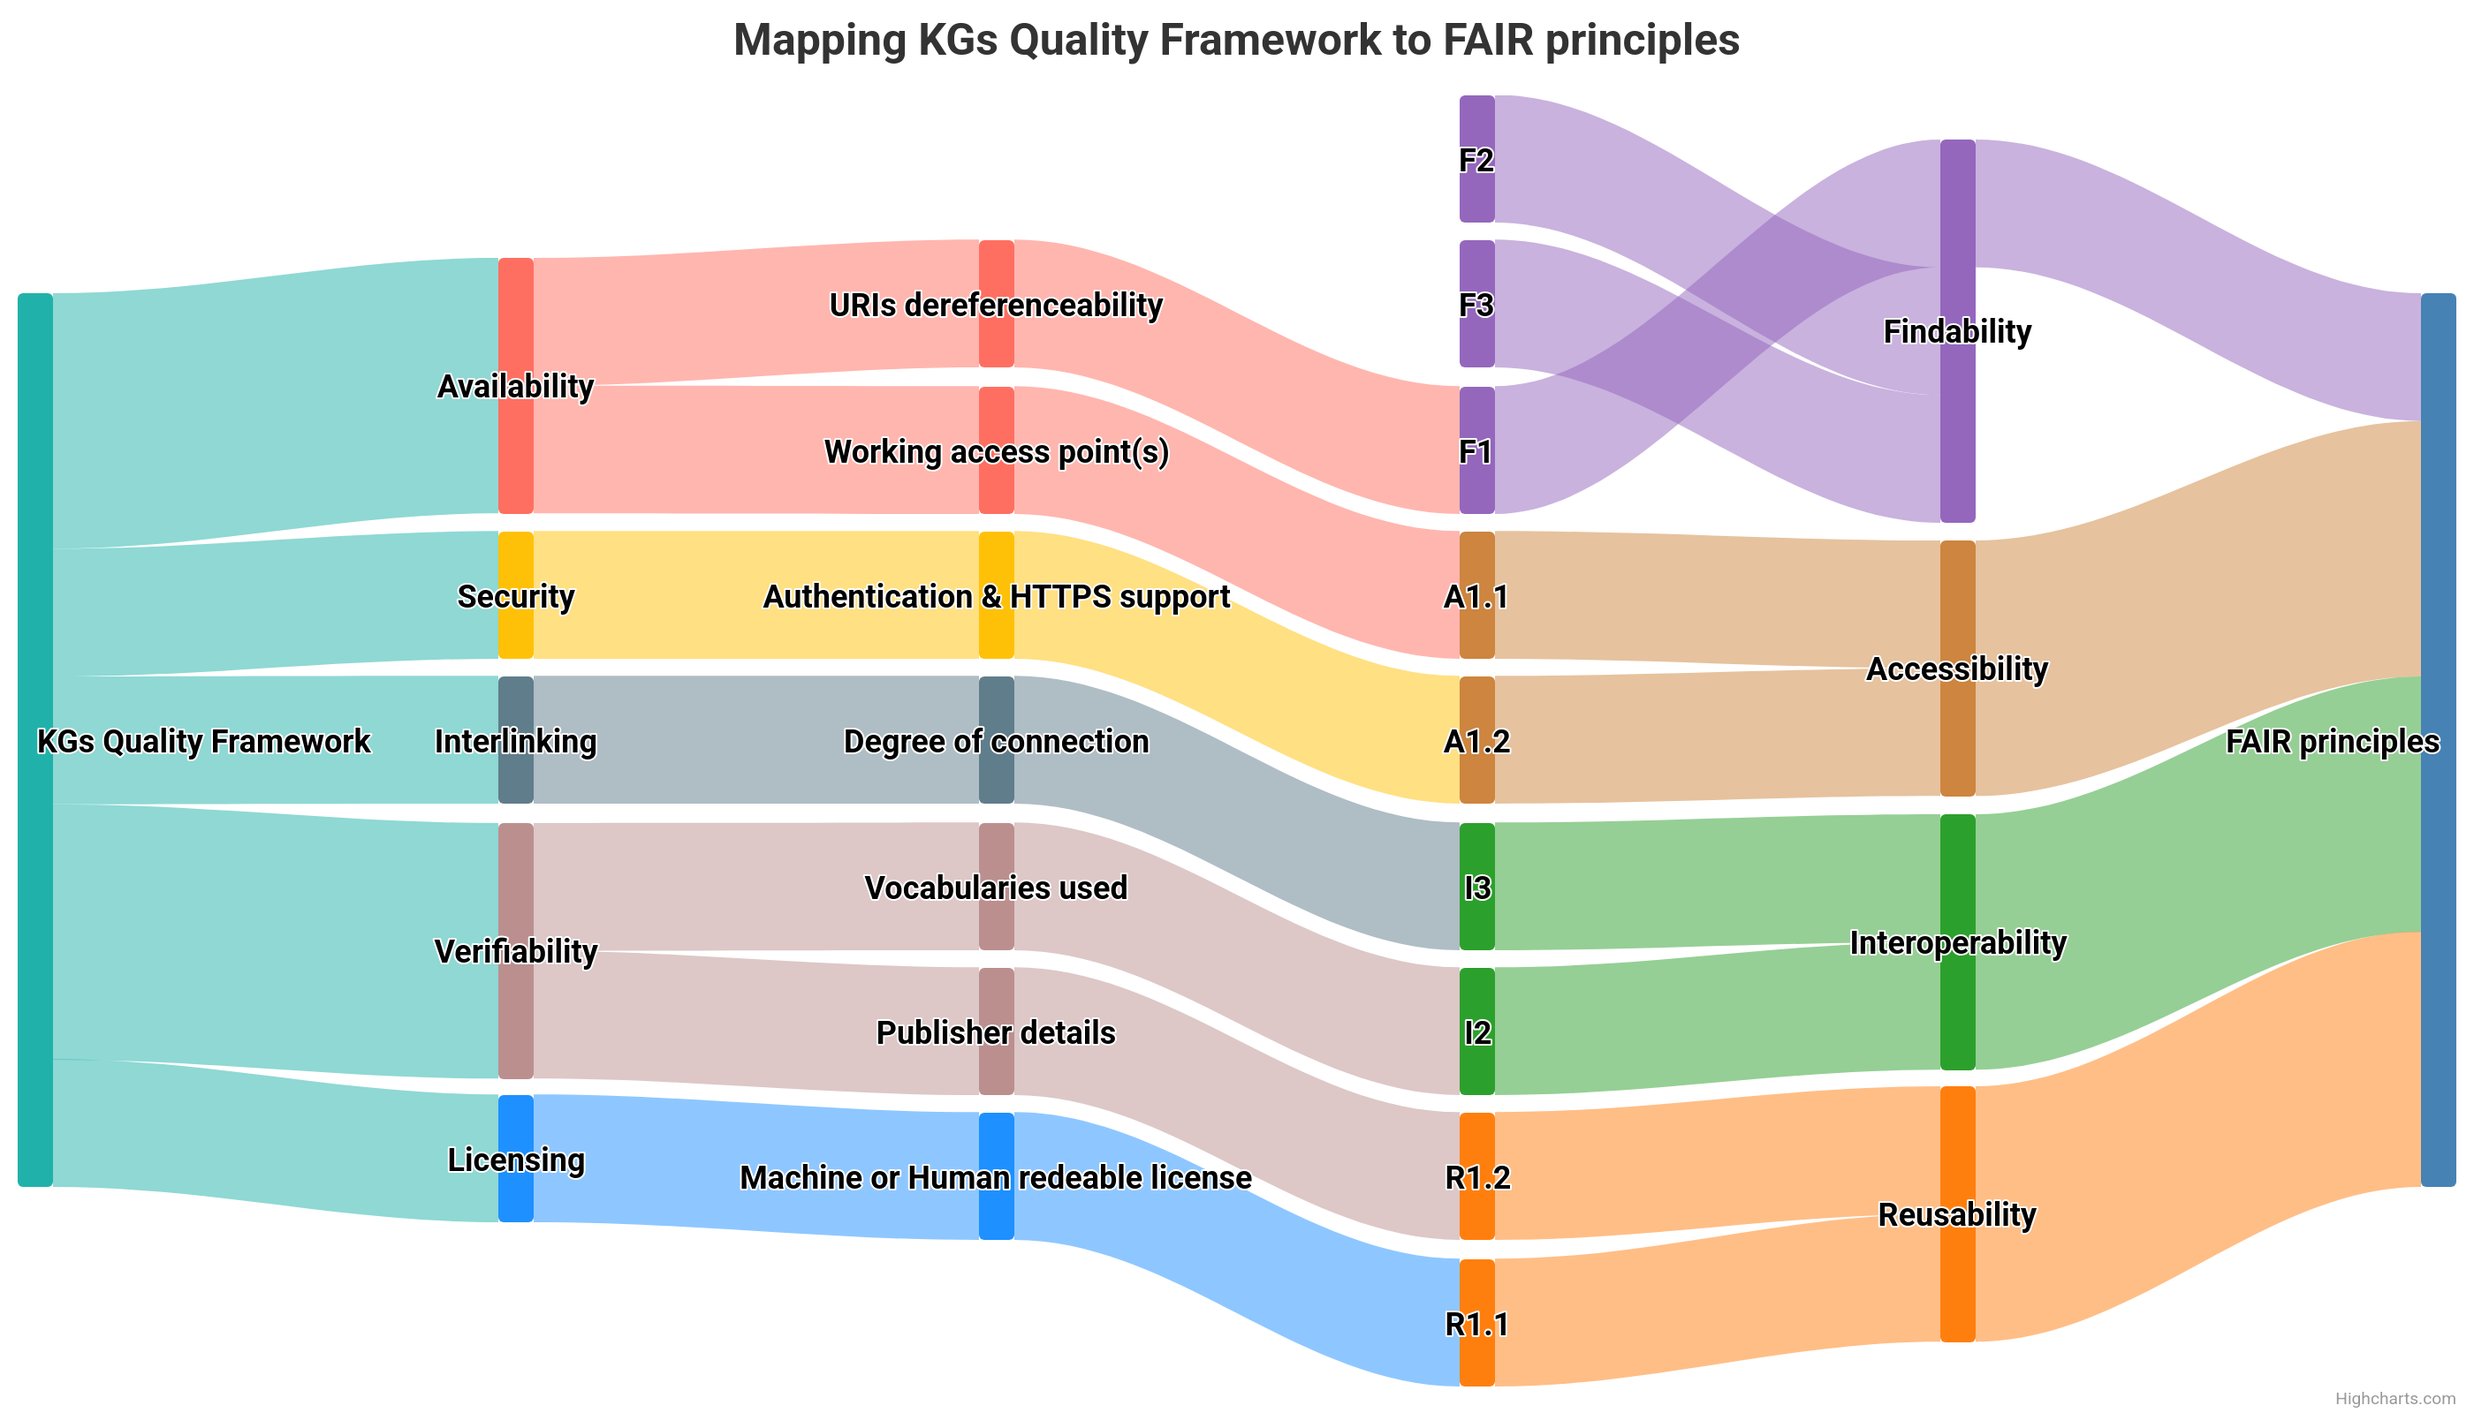
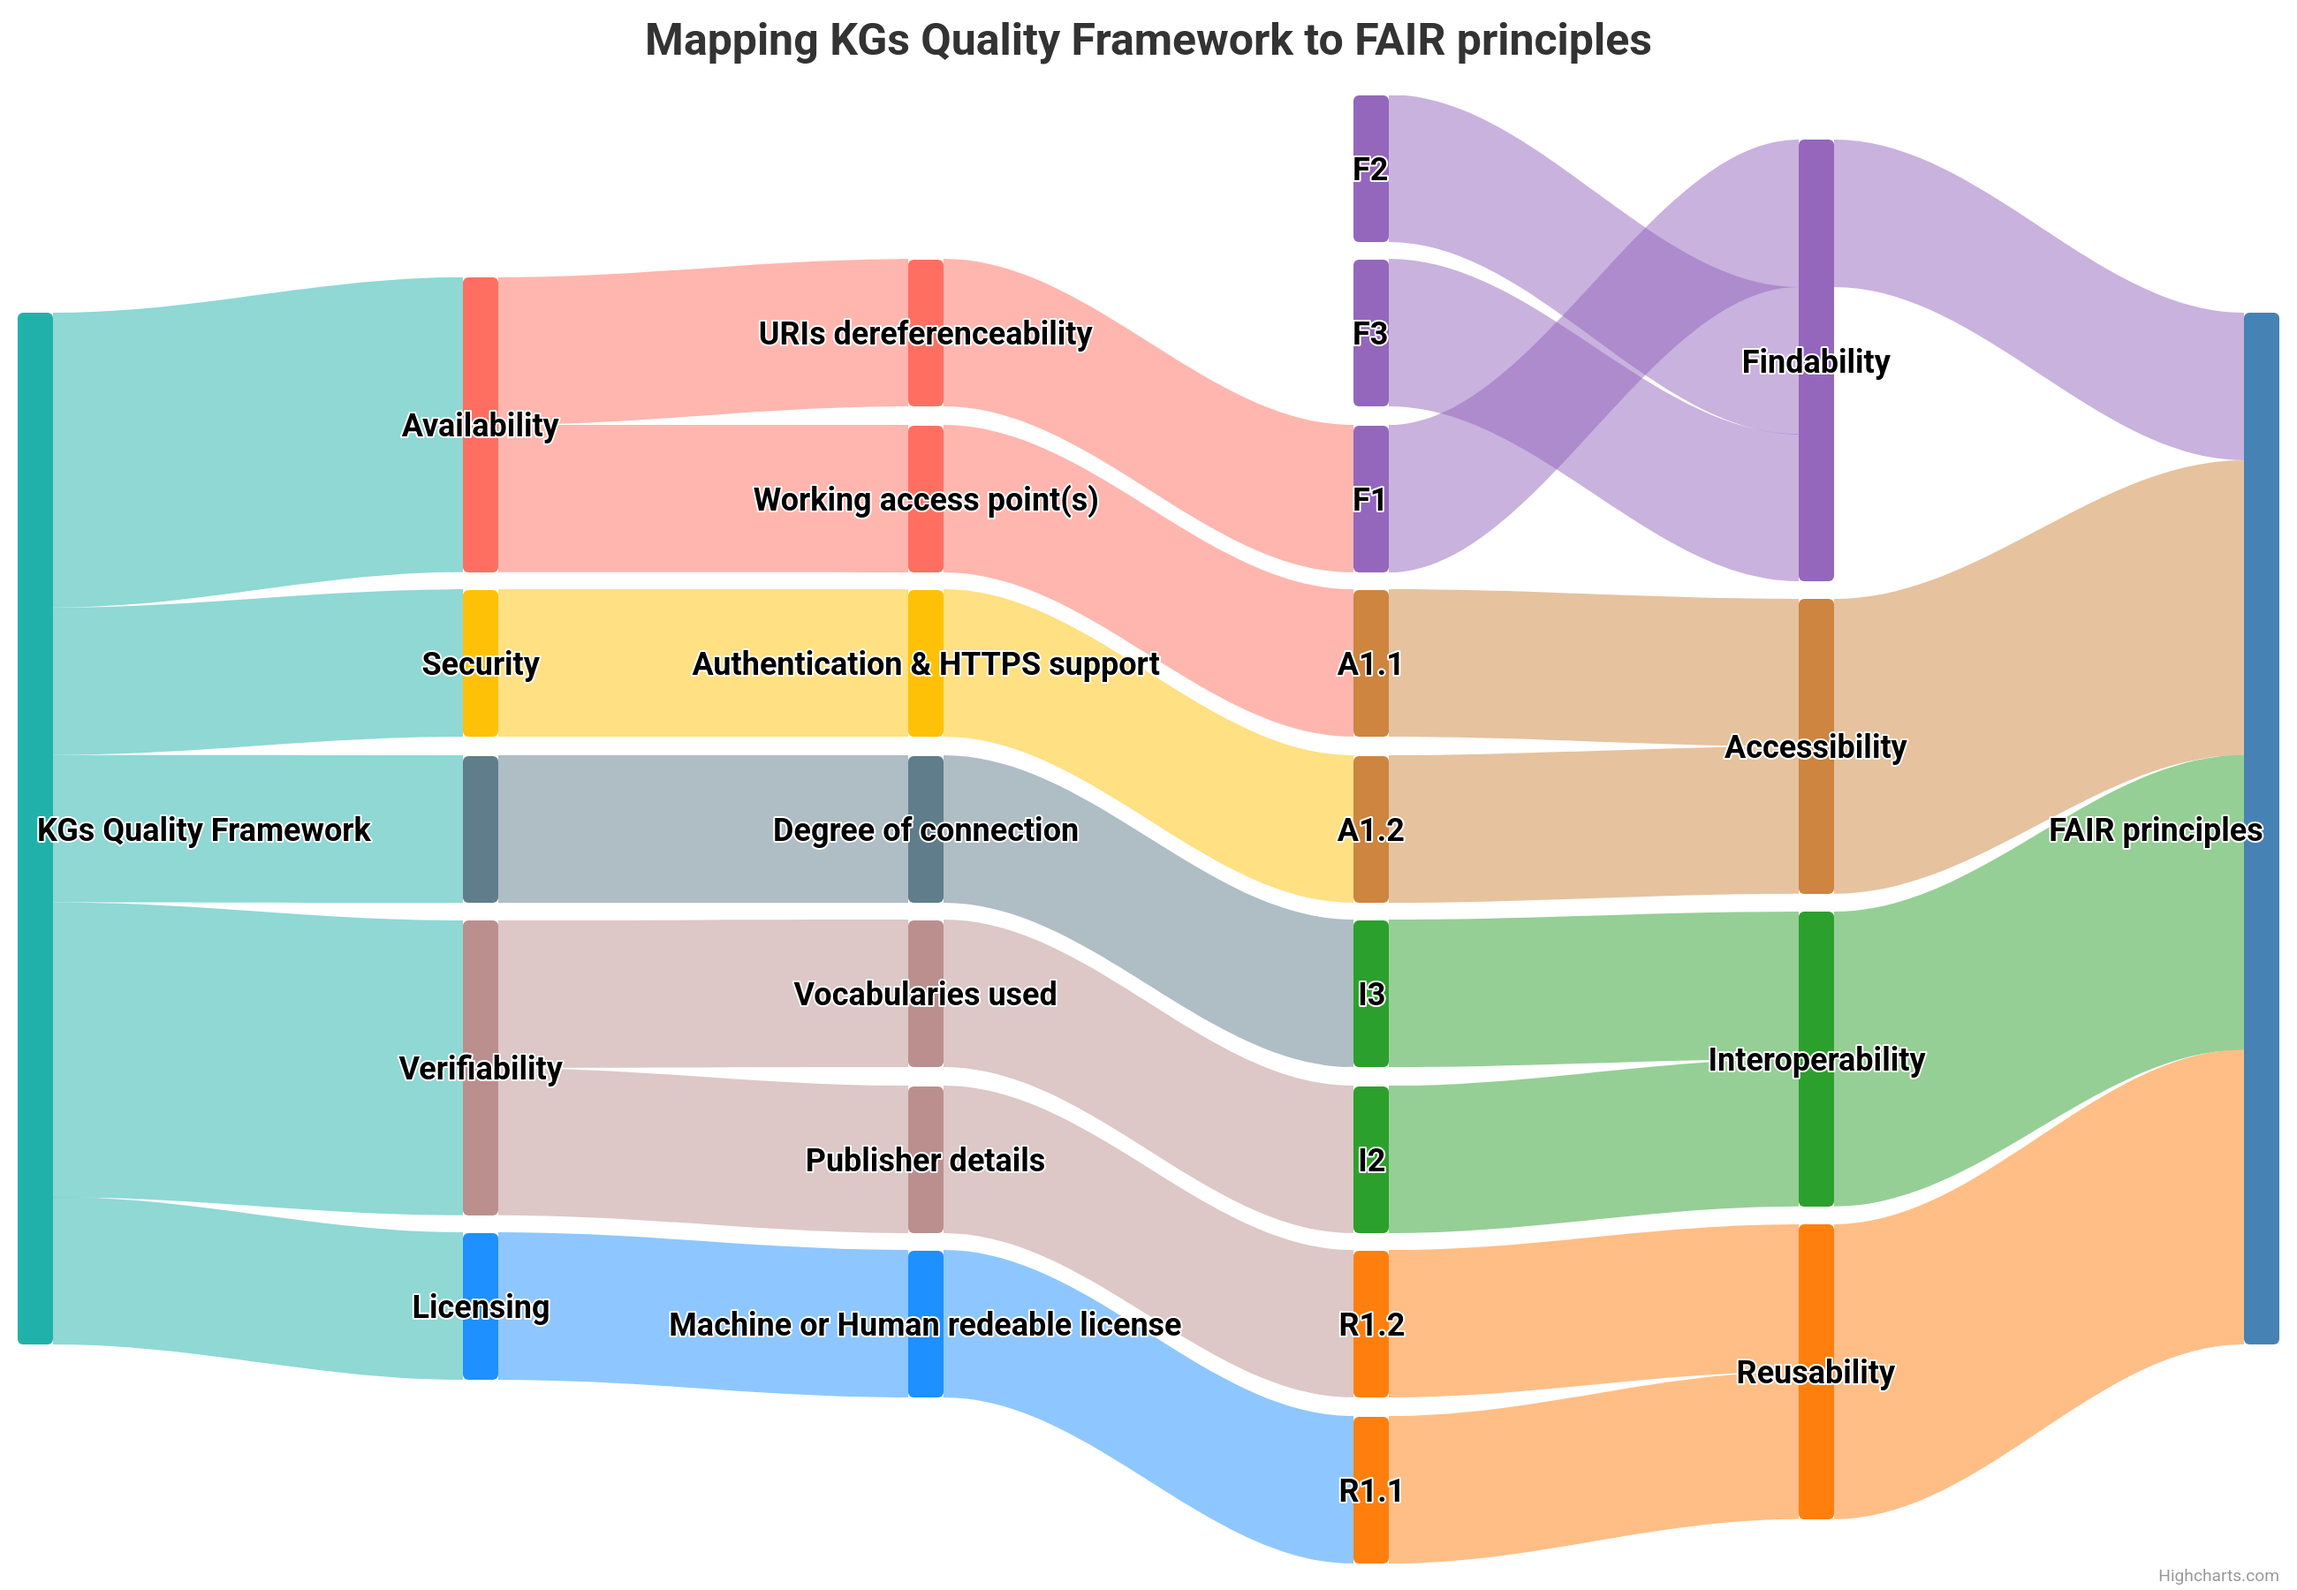
Updated the height of the chart container and adjusted the export parameters for higher resolution. Replaced the sankey.png image file.

diff --git a/index.html b/index.html
@@ -59,7 +59,7 @@
 
 </style>
 <figure class="highcharts-figure">
-    <div id="container" style="height: 95%;"></div>
+    <div id="container" style="height: 99%;"></div>
 </figure>
 
 
@@ -94,8 +94,8 @@
     },
 exporting: {
     enabled: true,
-    sourceWidth: 1400, // match your chart container width
-    sourceHeight: 800, // match your chart container height
+    sourceWidth: 1300, // match your chart container width
+    sourceHeight: 900, // match your chart container height
     scale: 2,           // higher scale = higher resolution
     fallbackToExportServer: false // use client-side export
 },
